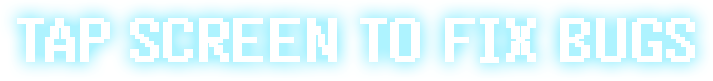
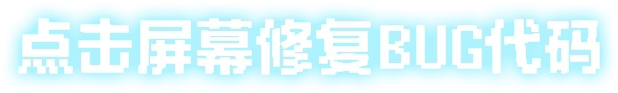
Refresh intro art, require Start button to begin, and sync Bug meter with console errors.

diff --git a/js/main.js b/js/main.js
@@ -46,6 +46,8 @@ function pickBug() {
 function logErrorLine(skipRender) {
   const row = pickBug();
   state.openBugs.push(row);
+  state.bugs += 1;
+  state.goodLines = Math.max(0, state.goodLines - 1);
   pushLog(row.err, "err", skipRender);
 }
 
@@ -75,6 +77,8 @@ const el = {
   stage: document.querySelector(".stage"),
   cons: document.getElementById("console"),
   intro: document.getElementById("intro"),
+  introStart: document.getElementById("intro-start"),
+  settings: document.getElementById("intro-settings"),
   sheet: document.getElementById("sheet"),
   sheetTitle: document.getElementById("sheet-title"),
   sumLines: document.getElementById("sum-lines"),
@@ -102,10 +106,6 @@ function rollQuota() {
 
 function writeSpeed() {
   return rank().linesPerSec * OUTPUT_SCALE;
-}
-
-function bugSpeed() {
-  return rank().bugsPerSec * OUTPUT_SCALE;
 }
 
 const state = {
@@ -502,15 +502,9 @@ function tick(now) {
         finishDay();
       } else {
         const prevL = state.lines;
-        const prevB = state.bugs;
         const add = Math.min(writeSpeed() * dt, room);
         state.lines += add;
         state.written += add;
-        state.bugs += bugSpeed() * dt;
-        const newBugs = Math.floor(state.bugs) - Math.floor(prevB);
-        if (newBugs > 0) {
-          state.goodLines = Math.max(0, state.goodLines - newBugs);
-        }
         const newLines = Math.floor(state.lines) - Math.floor(prevL);
         if (newLines > 0) {
           for (let i = 0; i < newLines; i += 1) {
@@ -524,7 +518,6 @@ function tick(now) {
           }
           renderLog();
         }
-        state.goodLines = Math.max(0, state.goodLines);
         if (state.written >= state.quota) finishDay();
       }
     }
@@ -538,17 +531,44 @@ function isClockOutTarget(target) {
   return !!(target && (target === el.clockOut || el.clockOut.contains(target)));
 }
 
+function isSettingsTarget(target) {
+  return !!(target && el.settings && (target === el.settings || el.settings.contains(target)));
+}
+
 function onDown(ev) {
   if (isClockOutTarget(ev.target)) return;
+  if (isSettingsTarget(ev.target)) return;
   if (el.sheet.contains(ev.target)) return;
+  if (!state.started) return;
   if (ev.pointerType === "mouse" && ev.button !== 0) return;
   ev.preventDefault();
-  if (!state.started) startGame();
   poke();
 }
 
 el.app.addEventListener("pointerdown", onDown);
-el.intro.addEventListener("pointerdown", onDown);
+
+if (el.introStart) {
+  el.introStart.addEventListener("pointerdown", (ev) => {
+    ev.preventDefault();
+    ev.stopPropagation();
+  });
+  el.introStart.addEventListener("click", (ev) => {
+    ev.preventDefault();
+    ev.stopPropagation();
+    startGame();
+  });
+}
+
+if (el.settings) {
+  el.settings.addEventListener("pointerdown", (ev) => {
+    ev.preventDefault();
+    ev.stopPropagation();
+  });
+  el.settings.addEventListener("click", (ev) => {
+    ev.preventDefault();
+    ev.stopPropagation();
+  });
+}
 
 el.clockOut.addEventListener("pointerdown", (ev) => {
   ev.preventDefault();
@@ -563,8 +583,8 @@ el.clockOut.addEventListener("click", (ev) => {
 
 window.addEventListener("keydown", (ev) => {
   if (ev.code !== "Space" || ev.repeat) return;
+  if (!state.started) return;
   ev.preventDefault();
-  if (!state.started) startGame();
   poke();
 });
 

diff --git a/css/styles.css b/css/styles.css
@@ -19,11 +19,17 @@
   --crt: #a8d4e8;
   --danger-bg: #3a1c1c;
   --intro-bg: #00000d;
+  --intro-start-zh-width: 80%;
+  --intro-hint-height: 7.91cqw;
+  --settings-gap: 12px;
+  --settings-size: 40px;
   --safe-top: env(safe-area-inset-top, 0px);
   --safe-bottom: env(safe-area-inset-bottom, 0px);
   --safe-right: env(safe-area-inset-right, 0px);
   --safe-left: env(safe-area-inset-left, 0px);
   --font: "FusionPixel", ui-monospace, monospace;
+  --console-font: 14px;
+  --console-line: 1.25;
   --bevel:
     inset 2px 2px 0 var(--hi),
     inset -2px -2px 0 var(--lo);
@@ -300,8 +306,8 @@ button {
   height: 100%;
   overflow: hidden;
   padding: 8px;
-  font-size: 12px;
-  line-height: 1.2;
+  font-size: var(--console-font);
+  line-height: var(--console-line);
   color: var(--ok);
   display: flex;
   flex-direction: column;
@@ -353,6 +359,30 @@ button {
   padding: 0;
 }
 
+.settings-btn {
+  position: absolute;
+  top: calc(var(--settings-gap) + var(--safe-top));
+  right: calc(var(--settings-gap) + var(--safe-right));
+  z-index: 2;
+  width: var(--settings-size);
+  height: var(--settings-size);
+  padding: 0;
+  border: 0;
+  background: transparent;
+  box-shadow: none;
+  cursor: pointer;
+  -webkit-tap-highlight-color: transparent;
+}
+
+.settings-btn img {
+  display: block;
+  width: 100%;
+  height: 100%;
+  image-rendering: pixelated;
+  image-rendering: crisp-edges;
+  pointer-events: none;
+}
+
 .intro-scene {
   display: block;
   width: 100%;
@@ -382,6 +412,7 @@ button {
   display: flex;
   flex-direction: column;
   align-items: center;
+  container-type: inline-size;
 }
 
 .intro-title {
@@ -390,39 +421,65 @@ button {
   height: auto;
   image-rendering: pixelated;
   image-rendering: crisp-edges;
-  mix-blend-mode: screen;
 }
 
 .intro-start {
-  display: block;
+  display: flex;
+  align-items: center;
+  justify-content: center;
   margin: 5% 0 0;
   padding: 0;
   border: 0;
   width: 55.029296875%;
-  background: transparent;
+  aspect-ratio: 805 / 377;
+  background: transparent url("../assets/intro-start-bg.webp") center / 100% 100% no-repeat;
+  image-rendering: pixelated;
+  image-rendering: crisp-edges;
   box-shadow: none;
   cursor: pointer;
-  line-height: 0;
+  container-type: inline-size;
+  -webkit-tap-highlight-color: transparent;
 }
 
-.intro-start img {
+.intro-start-label {
+  display: grid;
+  place-items: center;
+  width: 72%;
+  margin: 0;
+  padding: 0;
+  pointer-events: none;
+  user-select: none;
+}
+
+.intro-start-zh {
   display: block;
-  width: 100%;
+  width: var(--intro-start-zh-width);
   height: auto;
   image-rendering: pixelated;
   image-rendering: crisp-edges;
-  mix-blend-mode: screen;
-  pointer-events: none;
 }
 
 .intro-hint {
   display: block;
-  width: 69.62890625%;
-  height: auto;
+  height: var(--intro-hint-height);
+  width: auto;
+  max-width: 92%;
   margin-top: 5%;
   image-rendering: pixelated;
   image-rendering: crisp-edges;
-  mix-blend-mode: screen;
+  animation: intro-hint-blink 2s ease-in infinite;
+}
+
+@keyframes intro-hint-blink {
+  0%, 42% {
+    opacity: 1;
+  }
+  82% {
+    opacity: 0;
+  }
+  83%, 100% {
+    opacity: 1;
+  }
 }
 
 .sheet-card {

diff --git a/index.html b/index.html
@@ -52,14 +52,19 @@
   </div>
 
   <div id="intro" class="overlay intro">
+    <button type="button" id="intro-settings" class="settings-btn" aria-label="设置">
+      <img src="assets/settings.webp" width="40" height="40" alt="" draggable="false" />
+    </button>
     <img class="intro-scene" src="assets/intro-scene.webp" alt="" draggable="false" fetchpriority="high" />
     <div class="intro-ui">
       <div class="intro-stack">
         <img class="intro-title" src="assets/intro-title.webp" alt="SHITMOUNTAIN CODE" draggable="false" />
-        <button type="button" id="intro-start" class="intro-start" aria-label="START CODING">
-          <img src="assets/intro-start.webp" alt="" draggable="false" />
+        <button type="button" id="intro-start" class="intro-start" aria-label="开始编程">
+          <span class="intro-start-label" aria-hidden="true">
+            <img class="intro-start-zh" src="assets/intro-start-zh.webp" alt="" draggable="false" />
+          </span>
         </button>
-        <img class="intro-hint" src="assets/intro-hint.webp" alt="TAP SCREEN TO FIX BUGS" draggable="false" />
+        <img class="intro-hint" src="assets/intro-hint.webp" alt="点击屏幕修复BUG代码" draggable="false" />
       </div>
     </div>
   </div>
